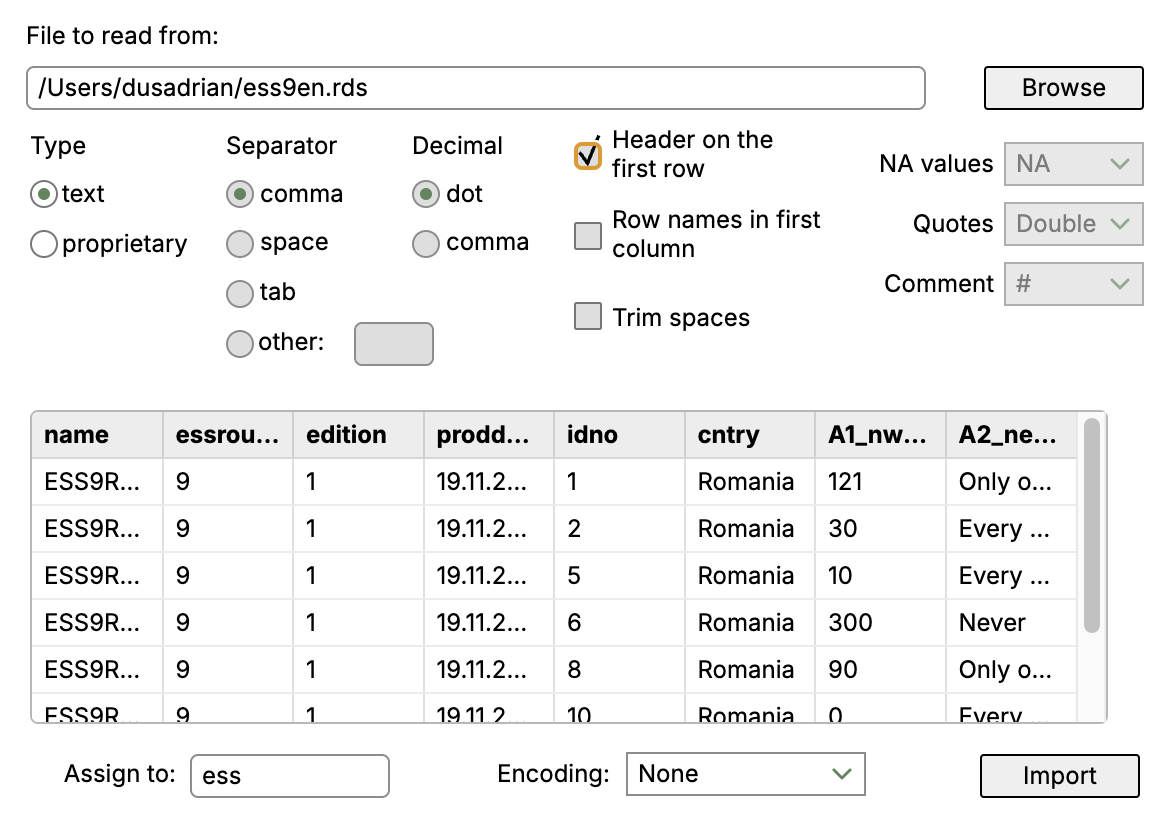
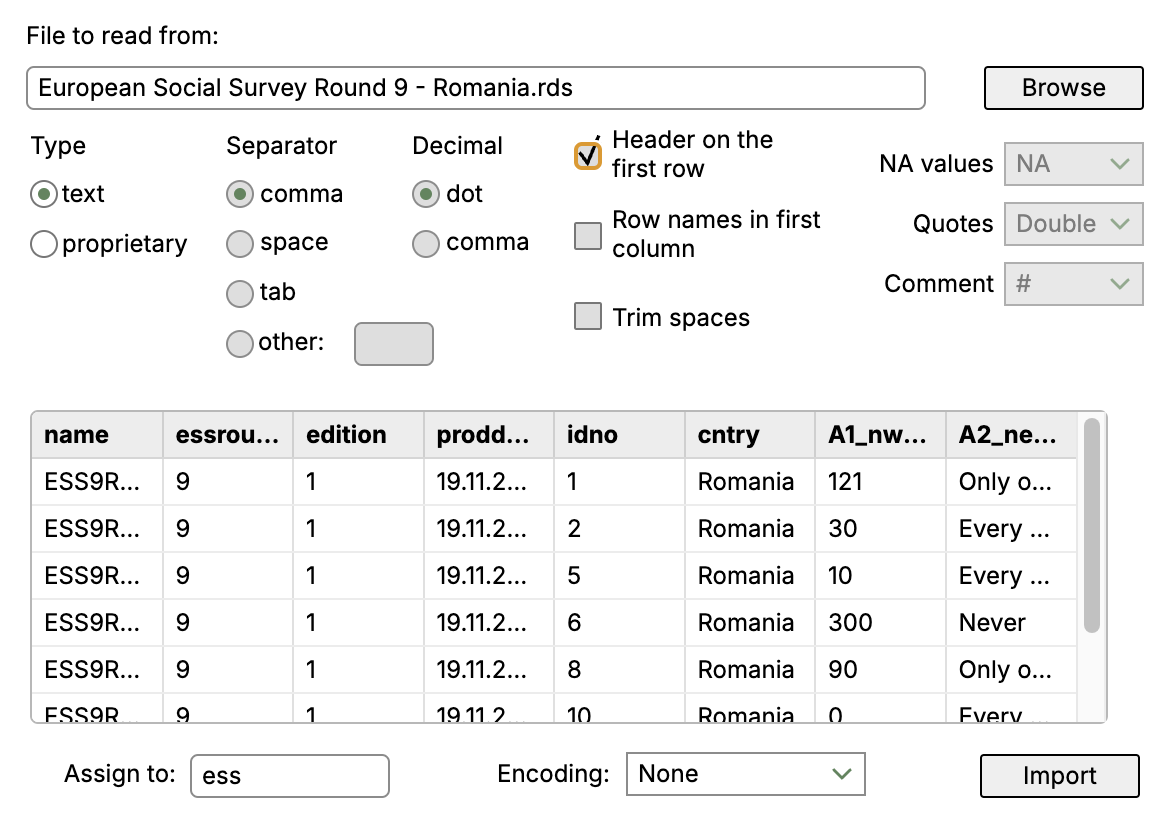
clarify DialogR runtime and WebR setup

Changed region(s): [[0.0308, 0.0915, 0.4923, 0.122]]

diff --git a/docs/usermanual.html b/docs/usermanual.html
@@ -48,7 +48,7 @@
         <figcaption><span>Figure 1</span> ESS political interest: the dataset and variable are selected, with Variable label enabled. Click Run. <a href="images/manual/frequencies.png" data-enlarge>Enlarge screenshot</a></figcaption>
     </figure>
     
-    <div class="callout"><p><strong>The dataset used in this guide.</strong> Screenshots use the prepared English-labelled ESS Round 9 Romania dataset, <strong>ess9en.rds</strong>, imported as <strong>ess</strong>. It contains 1,846 cases and 345 variables. The analysis variables retain their <strong>declared</strong> classes, labels, and missing-value definitions.</p><p>Use this prepared file if supplied with your course. You can also obtain data from the <a href="https://ess.sikt.no/">ESS Data Portal</a>; an original ESS download may have different variable names. The guide uses the prefixes in the prepared file, such as B1_polintr.</p></div><ol class="steps"><li><strong>Start DialogR.</strong> Complete <a href="#packages">desktop package setup</a>, or wait for WebR to load.</li><li><strong>Choose File → Import data.</strong> Browse to ess9en.rds, enter <strong>ess</strong> in <strong>Assign to</strong>, and click <strong>Import</strong>.</li><li><strong>Open the dataset editor.</strong> Explore the Data and Variables tabs. Keep the labels and missing-value definitions supplied with the file.</li><li><strong>Choose Analyze → Descriptive statistics → Frequency table.</strong> Select ess and <strong>B1_polintr</strong>, “How interested in politics”.</li><li><strong>Select Variable label and click Run.</strong> Leave Show values, Valid frequencies, and Observed only selected. No command needs to be typed.</li></ol>
+    <div class="callout"><p><strong>The dataset used in this guide.</strong> Screenshots use a prepared English-labelled <strong>European Social Survey Round 9 dataset for Romania</strong>, imported as <strong>ess</strong>. It contains 1,846 cases and 345 variables. The analysis variables retain their <strong>declared</strong> classes, labels, and missing-value definitions.</p><p>Use this prepared dataset if supplied with your course. You can also obtain data from the <a href="https://ess.sikt.no/">ESS Data Portal</a>; an original ESS download may have different variable names. The guide uses the prefixes in the prepared dataset, such as B1_polintr.</p></div><ol class="steps"><li><strong>Start DialogR.</strong> Complete <a href="#packages">desktop setup</a>, or wait for WebR to load.</li><li><strong>Choose File → Import data.</strong> Choose the European Social Survey Round 9 dataset for Romania, enter <strong>ess</strong> in <strong>Assign to</strong>, and click <strong>Import</strong>.</li><li><strong>Open the dataset editor.</strong> Explore the Data and Variables tabs. Keep the labels and missing-value definitions supplied with the file.</li><li><strong>Choose Analyze → Descriptive statistics → Frequency table.</strong> Select ess and <strong>B1_polintr</strong>, “How interested in politics”.</li><li><strong>Select Variable label and click Run.</strong> Leave Show values, Valid frequencies, and Observed only selected. No command needs to be typed.</li></ol>
     <div class="read-result"><h3>What to look for</h3><p>The four valid response categories contain 135, 380, 659, and 665 cases. Seven cases are labelled Refusal and treated as missing for the valid percentages. The overall total is 1,846; the valid total is 1,839. “Not at all interested” therefore represents 36.0% of all cases and 36.2% of valid responses.</p></div>
     <figure class="manual-figure" style="--screenshot-width: 437px">
         <a href="images/manual/frequencies-output.png" data-enlarge aria-label="Enlarge screenshot: Actual DialogR output: refusal remains visible as a distinct category, while valid percentages use only valid responses."><img src="images/manual/frequencies-output.png" width="874" height="480" loading="lazy" alt="Actual DialogR output: refusal remains visible as a distinct category, while valid percentages use only valid responses."></a>
@@ -113,8 +113,8 @@
     <p>Choose desktop DialogR for local work, or WebR to start in a browser with the required packages already supplied.</p>
     
     
-    <div class="callout"><p><strong>Desktop: you are responsible for installing the necessary R packages.</strong> Installing the application alone does not finish setup. Packages provide the calculations and import tools used by the dialogs.</p><p><strong>WebR: the packages are included, but analysis is slower.</strong> You do not need to install R packages on your computer. Allow time for the browser application and its library to load.</p></div>
-            <h3>Complete desktop setup</h3><ol class="steps"><li>Install the appropriate release from <a href="download.html">Get DialogR</a> and start the application.</li><li>Make sure the local R runtime is available.</li><li>Choose <strong>Packages → Install required R packages</strong>. Keep your internet connection available and wait for installation to finish.</li><li>If a dialog reports an old package, choose <strong>Packages → Update development versions</strong>. Read any installation error before trying again.</li></ol>
+    <div class="callout"><p><strong>Desktop: DialogR is a graphical layer on top of R.</strong> You are responsible for installing R itself and the necessary R packages. Installing DialogR alone does not provide the statistical runtime or the packages that perform its calculations and imports.</p><p><strong>WebR: R and the packages are supplied in the browser, but analysis is slower.</strong> You do not need to install R or its packages on your computer. The same dataset can be used; allow more time for the browser runtime, imports, and analyses.</p></div>
+            <h3>Complete desktop setup</h3><ol class="steps"><li>Install <a href="https://cran.r-project.org/">R</a> for your operating system.</li><li>Install the appropriate DialogR release from <a href="download.html">Get DialogR</a> and start the application.</li><li>Confirm that DialogR is using your local R installation in the runtime settings.</li><li>Choose <strong>Packages → Install required R packages</strong>. Keep your internet connection available and wait for installation to finish.</li><li>If a dialog reports an old package, choose <strong>Packages → Update development versions</strong>. Read any installation error before trying again.</li></ol>
             <h3>What the packages do</h3><div class="table-scroll"><table><thead><tr><th>Package</th><th>What it supplies</th><th>Required version</th></tr></thead><tbody><tr><td>admisc</td><td>Working within datasets and recoding values.</td><td>0.41 or newer</td></tr><tr><td>declared</td><td>Labelled data, missing-value handling, tables, and summaries.</td><td>0.27 or newer</td></tr><tr><td>DDIwR</td><td>Importing data from other statistical software and Excel.</td><td>0.20 or newer</td></tr><tr><td>statistics</td><td>Independent-samples t-tests and one-way ANOVA with variance-homogeneity handling.</td><td>Newer than 0.14</td></tr></tbody></table></div>
             <p>The setup workflow also installs supporting packages. They must be installed in the R installation used by DialogR. If Excel import reports a missing readxl package, that import dependency must be installed in the same R library. Further technical information is in the <a href="commands.html#packages">optional package reference</a>.</p>
     
@@ -126,10 +126,10 @@
     <p class="menu-path">File → Import data</p>
     <p>Bring in a dataset from SPSS, Stata, SAS, Excel, a text file, or an R dataset. Importing data does not import another program’s analyses or syntax.</p>
     <figure class="manual-figure" style="--screenshot-width: 585px">
-        <a href="images/manual/import.png" data-enlarge aria-label="Enlarge screenshot: Import the prepared ess9en.rds file and assign it the name ess. Your file location will differ."><img src="images/manual/import.png" width="1170" height="820" loading="lazy" alt="Import the prepared ess9en.rds file and assign it the name ess. Your file location will differ."></a>
-        <figcaption><span>Figure 8</span> Import the prepared ess9en.rds file and assign it the name ess. Your file location will differ. <a href="images/manual/import.png" data-enlarge>Enlarge screenshot</a></figcaption>
+        <a href="images/manual/import.png" data-enlarge aria-label="Enlarge screenshot: Import the European Social Survey Round 9 dataset for Romania and assign it the name ess."><img src="images/manual/import.png" width="1170" height="820" loading="lazy" alt="Import the European Social Survey Round 9 dataset for Romania and assign it the name ess."></a>
+        <figcaption><span>Figure 8</span> Import the European Social Survey Round 9 dataset for Romania and assign it the name ess. <a href="images/manual/import.png" data-enlarge>Enlarge screenshot</a></figcaption>
     </figure>
-    <h3>To carry out this example</h3><ol class="steps"><li>Click <strong>Browse</strong> and choose <strong>ess9en.rds</strong>, or your own supported data file.</li>
+    <h3>To carry out this example</h3><ol class="steps"><li>Click <strong>Browse</strong> and choose the European Social Survey Round 9 dataset for Romania, or your own supported data file.</li>
 <li>Enter <strong>ess</strong> under Assign to for this example.</li>
 <li>For a text file, check separator, decimal mark, header, missing-value marker, quotes, and encoding. These parsing controls are not needed for the prepared R dataset.</li>
 <li>Click <strong>Import</strong>. Open the dataset and review variable labels, value labels, and missing-value definitions in Variables view.</li></ol>
@@ -407,7 +407,7 @@
     <p>Start with the dialog’s message and the dataset settings. Most unexpected results can be traced to an input choice, missing value, or active filter, group, or weight.</p>
     
     
-    <h3>A dialog cannot run</h3><p>Wait for the runtime to finish starting. Select a dataset and all required variables. If a package is missing or outdated, follow <a href="#packages">Set up DialogR</a>.</p><h3>Results differ from the example</h3><p>Use the prepared ESS R dataset, then check the <a href="#dataset-state">filter, grouping, and weight settings</a>. Check declared missing-value definitions and confirm that you chose the same variable and did not change the original data.</p><h3>A variable is missing</h3><p>Select the correct dataset. A subset may have excluded the column you need. Check its name and type in the Variables view.</p><h3>WebR is slow</h3><p>Allow the browser runtime and package library to finish loading. For larger datasets and repeated intensive analyses, use desktop DialogR after completing package setup.</p><h3>Keep the original data</h3><p>Keep a copy of your input file. Use new-dataset and new-variable options for transformations when you want to preserve the originals. Save datasets or the workspace explicitly; do not rely on an open browser tab.</p><p>You may also keep generated commands in a script to repeat your work later. A script records instructions, not a copy of every dataset. For a reproducible problem, <a href="https://github.com/RODA/DialogR/issues">report an issue</a> with the dialog name, version, exact message, and a small non-confidential example.</p>
+    <h3>A dialog cannot run</h3><p>Wait for the runtime to finish starting. Select a dataset and all required variables. If a package is missing or outdated, follow <a href="#packages">Set up DialogR</a>.</p><h3>Results differ from the example</h3><p>Use the prepared European Social Survey Round 9 dataset for Romania, then check the <a href="#dataset-state">filter, grouping, and weight settings</a>. Check declared missing-value definitions and confirm that you chose the same variable and did not change the original data.</p><h3>A variable is missing</h3><p>Select the correct dataset. A subset may have excluded the column you need. Check its name and type in the Variables view.</p><h3>WebR is slow</h3><p>Allow the browser runtime and package library to finish loading. WebR can use the same dataset as desktop DialogR; loading, importing, and analysing it will simply take longer. Use desktop DialogR when you prefer faster repeated work.</p><h3>Keep the original data</h3><p>Keep a copy of your input file. Use new-dataset and new-variable options for transformations when you want to preserve the originals. Save datasets or the workspace explicitly; do not rely on an open browser tab.</p><p>You may also keep generated commands in a script to repeat your work later. A script records instructions, not a copy of every dataset. For a reproducible problem, <a href="https://github.com/RODA/DialogR/issues">report an issue</a> with the dialog name, version, exact message, and a small non-confidential example.</p>
     
     
 </section></div></div>

diff --git a/docs/index.html b/docs/index.html
@@ -7,5 +7,5 @@
 <section class="section wrap" id="from-spss"><p class="eyebrow">From SPSS to R</p><h2>A familiar way to work.<br>A fresh way into R.</h2><p class="lead">If you know your way around SPSS, you already know the idea: browse your data, define your variables, choose a menu, and fill in a dialog. DialogR brings that familiar workflow to R.</p><div class="grid"><article class="card"><span class="eyebrow">The data editor</span><h3>Cases and variables, side by side.</h3><p>Work with rows and columns in the Data view. Switch to Variables to inspect and edit names, types, labels, and other variable properties.</p><a href="usermanual.html#from-spss">Get to know the editor →</a></article><article class="card"><span class="eyebrow">Menus and dialogs</span><h3>Your choices become the code.</h3><p>Find a procedure in Data, Transform, or Analyze. Select the variables and options you need; DialogR takes care of constructing the command.</p><a href="usermanual.html#dialog-reference">Browse the available dialogs →</a></article><article class="card"><span class="eyebrow">Across platforms</span><h3>A modern interface for R.</h3><p>Use DialogR on macOS, Windows, or Linux, or start with WebR in your browser. A responsive interface brings the dialog-driven workflow across these environments.</p><a href="download.html">Choose your version →</a></article></div></section>
 <section class="section wrap"><p class="eyebrow">A clear path from data to insight</p><h2>Choose. Click. Analyse.</h2><div class="grid"><article class="card"><span class="eyebrow">01 / Bring your data</span><h3>A familiar place to begin.</h3><p>Open your SPSS, Stata, SAS, or Excel data. Browse cases in the data view and review their definitions in the variable view.</p><a href="usermanual.html#import">Meet the import tools →</a></article><article class="card"><span class="eyebrow">02 / Make your choices</span><h3>Let the dialog guide you.</h3><p>Choose an analysis from the menus, select variables, and set your options. The dialog constructs the R command automatically.</p><a href="usermanual.html#dialog-reference">Find your analysis →</a></article><article class="card"><span class="eyebrow">03 / Run your analysis</span><h3>Get results. Learn at your pace.</h3><p>Run the analysis without writing code. If you want to learn R, the generated command is there to explore, save, and reuse.</p><a href="usermanual.html#commands">Explore the generated commands →</a></article></div></section>
 <section class="tint"><div class="section wrap split"><div><p class="eyebrow">Built around real research data</p><h2>A new interface.<br>A familiar dataset.</h2><p>Move into R with data from SPSS, Stata, or SAS. DialogR uses DDIwR for these imports and the declared package for working with labelled data and declared missing values.</p><p>Excel works too: use one rectangular data table, one variable per column, and one case per row. The manual explains the layout and optional metadata sheets.</p><a href="usermanual.html#import">Prepare your first import →</a></div><div><p class="eyebrow">A useful starting toolkit</p><h3>Prepare your data</h3><p>Sort cases, select subsets, recode values, set grouping, and apply frequency weights.</p><h3>Explore and compare</h3><p>Frequency and contingency tables, numerical summaries, one-sample and independent-samples t-tests, and one-way ANOVA.</p><a href="usermanual.html#dialog-reference">Read the guide to every dialog →</a></div></div></section>
-<section class="section wrap split" id="declared-data"><div><p class="eyebrow">More than numbers in cells</p><h2>Keep what your<br>data means.</h2><p>Multiple missing values. Their meaning preserved. DialogR uses the <a href="https://CRAN.R-project.org/package=declared"><strong>declared R package</strong></a> to distinguish “refusal”, “don’t know”, and “not applicable” — instead of losing their meaning in a single undifferentiated missing value. Each can keep its own code and label while being treated as missing in supported analyses.</p><p>View and edit those definitions in the familiar variable editor. Frequency tables can show the missing categories, while valid percentages and numerical summaries exclude responses declared missing.</p><p>In the ESS example, seven refusals remain visible in the political-interest table. They are excluded from its valid percentages — automatically, because their meaning is part of the variable.</p><a href="usermanual.html#declared-values">See labels and missing values in action →</a></div><figure class="manual-figure"><a href="usermanual.html#declared-values"><img src="images/manual/declared-missing.png" width="1180" height="860" loading="lazy" alt="ESS political-interest value labels, with Refusal, Don’t know, and No answer marked as missing."></a><figcaption>Actual ESS variable definitions in DialogR.</figcaption></figure></section><section class="section wrap"><p class="eyebrow">Choose how you work</p><h2>At your desk. In your browser.</h2><div class="download-grid"><article class="card"><span class="eyebrow">Desktop</span><h3>Local R. More speed.</h3><p>Install DialogR for regular analysis on your computer.</p><p><strong>You are responsible for installing the necessary R packages.</strong> Installing the application alone does not complete package setup. The Packages menu helps you install and update them.</p><a class="button primary" href="download.html#desktop">Desktop setup →</a></article><article class="card"><span class="eyebrow">WebR</span><h3>Everything ready to start.</h3><p>Use R in your browser with the packages needed by DialogR already included. No local R package installation is needed.</p><p><strong>WebR is slower than local R.</strong> Allow extra time for startup, imports, and analysis; larger datasets are better suited to the desktop version.</p><a class="button" href="https://webr.adriandusa.com/dialogr">Open DialogR in the browser ↗</a></article></div></section>
+<section class="section wrap split" id="declared-data"><div><p class="eyebrow">More than numbers in cells</p><h2>Keep what your<br>data means.</h2><p>Multiple missing values. Their meaning preserved. DialogR uses the <a href="https://CRAN.R-project.org/package=declared"><strong>declared R package</strong></a> to distinguish “refusal”, “don’t know”, and “not applicable” — instead of losing their meaning in a single undifferentiated missing value. Each can keep its own code and label while being treated as missing in supported analyses.</p><p>View and edit those definitions in the familiar variable editor. Frequency tables can show the missing categories, while valid percentages and numerical summaries exclude responses declared missing.</p><p>In the ESS example, seven refusals remain visible in the political-interest table. They are excluded from its valid percentages — automatically, because their meaning is part of the variable.</p><a href="usermanual.html#declared-values">See labels and missing values in action →</a></div><figure class="manual-figure"><a href="usermanual.html#declared-values"><img src="images/manual/declared-missing.png" width="1180" height="860" loading="lazy" alt="ESS political-interest value labels, with Refusal, Don’t know, and No answer marked as missing."></a><figcaption>Actual ESS variable definitions in DialogR.</figcaption></figure></section><section class="section wrap"><p class="eyebrow">Choose how you work</p><h2>At your desk. In your browser.</h2><div class="download-grid"><article class="card"><span class="eyebrow">Desktop</span><h3>Local R. More speed.</h3><p>DialogR is a graphical layer on top of R. Install R first, then install DialogR for regular analysis on your computer.</p><p><strong>You are responsible for installing R and the necessary R packages.</strong> Installing DialogR alone does not complete desktop setup. The Packages menu helps you install and update the packages.</p><a class="button primary" href="download.html#desktop">Desktop setup →</a></article><article class="card"><span class="eyebrow">WebR</span><h3>Everything ready to start.</h3><p>Use R in your browser with the R runtime and packages needed by DialogR already included. No local R or package installation is needed.</p><p><strong>WebR is slower than local R.</strong> It can use the same dataset; allow extra time for startup, imports, and analysis.</p><a class="button" href="https://webr.adriandusa.com/dialogr">Open DialogR in the browser ↗</a></article></div></section>
 <section class="tint"><div class="section wrap split"><div><p class="eyebrow">The user manual</p><h2>Understand every choice.</h2><p>Follow actual screenshots of the data editor and each dialog, with numbered steps and explanations of the results. Learn with real ESS data and its declared missing values.</p></div><div><h3>Your next step</h3><p><a href="usermanual.html#getting-started">A first analysis, step by step →</a></p><p><a href="usermanual.html#packages">R packages and installation →</a></p><p><a href="usermanual.html#commands">Reading and reusing commands →</a></p></div></div></section></main><footer class="wrap"><div><a class="brand" href="index.html">DialogR</a><p class="small">By Adrian Dusa · Part of the <a href="https://www.roda.ro/">RODA</a> tools for research.</p></div><nav aria-label="Project links"><a href="https://github.com/RODA/DialogR">Source code</a><a href="https://github.com/RODA/DialogR/issues">Report an issue</a><a href="https://roda.github.io/DialogCreator/">DialogCreator ↗</a><a href="https://github.com/RODA/DialogR/blob/main/LICENSE">License</a></nav></footer></body></html>

diff --git a/docs/download.html b/docs/download.html
@@ -1,3 +1,3 @@
 <!doctype html>
-<html lang="en"><head><meta charset="utf-8"><meta name="viewport" content="width=device-width, initial-scale=1"><title>Get DialogR — DialogR</title><meta name="description" content="Choose desktop DialogR or WebR. Install the required R packages on desktop, or use the slower browser version with packages included."><meta name="theme-color" content="#faf9f6"><meta property="og:title" content="Get DialogR — DialogR"><meta property="og:description" content="Choose desktop DialogR or WebR. Install the required R packages on desktop, or use the slower browser version with packages included."><meta property="og:type" content="website"><link rel="icon" href="images/dialogr.svg" type="image/svg+xml"><link rel="stylesheet" href="css/site.css"><script src="scripts/site.js" defer></script></head>
-<body><a class="skip" href="#main">Skip to content</a><header class="wrap"><a class="brand" href="index.html"><img src="images/dialogr.svg" alt="" width="34" height="34">DialogR</a><nav aria-label="Main navigation"><a href="index.html">Overview</a><a href="usermanual.html">User manual</a><a href="download.html" aria-current="page">Get DialogR</a></nav></header><main id="main" class="wrap"><div class="page-heading"><p class="eyebrow">Choose your starting point</p><h1>Make room for discovery.</h1><p class="lead">Analyse data through familiar menus and dialogs — DialogR writes the R commands for you. Choose the desktop application or begin in a browser with the R packages already included.</p></div><div class="download-grid"><section class="card" id="desktop"><p class="eyebrow">Desktop / local R</p><h2>Your everyday workspace.</h2><p>Use the release for your operating system and processor. Release pages list the available installers and their version information.</p><p><a href="https://github.com/RODA/DialogR/releases/tag/ms">macOS · Apple silicon ↗</a><br><a href="https://github.com/RODA/DialogR/releases/tag/mi">macOS · Intel ↗</a><br><a href="https://github.com/RODA/DialogR/releases/tag/wi">Windows · Intel / x64 ↗</a><br><a href="https://github.com/RODA/DialogR/releases/tag/li">Linux · Intel / x64 ↗</a></p><div class="callout"><p><strong>Package installation is your responsibility.</strong> After installing DialogR, install the required R packages. They are separate from the application.</p></div><ol><li>Download and install the appropriate application release.</li><li>Start DialogR and make sure its local R runtime is available. If no R installation is found, install R and select it in the application’s runtime settings.</li><li>Choose <strong>Packages → Install required R packages</strong>. Wait for installation to finish and resolve any reported failures.</li><li>Use <strong>Packages → Update development versions</strong> when a required package is too old.</li><li>Import a dataset and follow the first-analysis guide.</li></ol><a href="usermanual.html#packages">Package requirements and versions →</a></section><section class="card"><p class="eyebrow">Browser / WebR</p><h2>Ready when you are.</h2><p>WebR runs R in your browser. The packages needed for DialogR’s supported dialogs are included in its supplied library; you do not need to install them on your computer.</p><div class="callout"><p><strong>WebR is slower than local R.</strong> Startup includes loading the runtime and package library. Imports and analyses can also take longer.</p></div><p>Begin with a modest dataset and allow loading to finish. Use the file picker to bring data into the browser session, and save the files and results you need before closing it.</p><a class="button primary" href="https://webr.adriandusa.com/dialogr">Open WebR ↗</a><p style="margin-top:24px"><a href="usermanual.html#getting-started">Follow your first analysis →</a></p></section></div><section class="section"><h2>For research and teaching.</h2><p>DialogR is available under its academic non-commercial license. See the repository’s license for the terms of use.</p><p><a href="https://github.com/RODA/DialogR">Source code and developer setup ↗</a> · <a href="usermanual.html">Read the user manual →</a></p></section></main><footer class="wrap"><div><a class="brand" href="index.html">DialogR</a><p class="small">By Adrian Dusa · Part of the <a href="https://www.roda.ro/">RODA</a> tools for research.</p></div><nav aria-label="Project links"><a href="https://github.com/RODA/DialogR">Source code</a><a href="https://github.com/RODA/DialogR/issues">Report an issue</a><a href="https://roda.github.io/DialogCreator/">DialogCreator ↗</a><a href="https://github.com/RODA/DialogR/blob/main/LICENSE">License</a></nav></footer></body></html>
+<html lang="en"><head><meta charset="utf-8"><meta name="viewport" content="width=device-width, initial-scale=1"><title>Get DialogR — DialogR</title><meta name="description" content="Choose desktop DialogR or WebR. Install R and the required packages for desktop use, or use the slower browser version with R and packages included."><meta name="theme-color" content="#faf9f6"><meta property="og:title" content="Get DialogR — DialogR"><meta property="og:description" content="Choose desktop DialogR or WebR. Install R and the required packages for desktop use, or use the slower browser version with R and packages included."><meta property="og:type" content="website"><link rel="icon" href="images/dialogr.svg" type="image/svg+xml"><link rel="stylesheet" href="css/site.css"><script src="scripts/site.js" defer></script></head>
+<body><a class="skip" href="#main">Skip to content</a><header class="wrap"><a class="brand" href="index.html"><img src="images/dialogr.svg" alt="" width="34" height="34">DialogR</a><nav aria-label="Main navigation"><a href="index.html">Overview</a><a href="usermanual.html">User manual</a><a href="download.html" aria-current="page">Get DialogR</a></nav></header><main id="main" class="wrap"><div class="page-heading"><p class="eyebrow">Choose your starting point</p><h1>Make room for discovery.</h1><p class="lead">Analyse data through familiar menus and dialogs — DialogR writes the R commands for you. Choose the desktop application, which runs on your own R installation, or begin in a browser with R and its packages already included.</p></div><div class="download-grid"><section class="card" id="desktop"><p class="eyebrow">Desktop / local R</p><h2>Your everyday workspace.</h2><p>Use the release for your operating system and processor. Release pages list the available installers and their version information.</p><p><a href="https://github.com/RODA/DialogR/releases/tag/ms">macOS · Apple silicon ↗</a><br><a href="https://github.com/RODA/DialogR/releases/tag/mi">macOS · Intel ↗</a><br><a href="https://github.com/RODA/DialogR/releases/tag/wi">Windows · Intel / x64 ↗</a><br><a href="https://github.com/RODA/DialogR/releases/tag/li">Linux · Intel / x64 ↗</a></p><div class="callout"><p><strong>DialogR is a graphical layer on top of R.</strong> You are responsible for installing R itself and the required R packages. They are separate from the DialogR application.</p></div><ol><li>Install <a href="https://cran.r-project.org/">R</a> for your operating system.</li><li>Download and install the appropriate DialogR release.</li><li>Start DialogR and select your R installation in the application’s runtime settings.</li><li>Choose <strong>Packages → Install required R packages</strong>. Wait for installation to finish and resolve any reported failures.</li><li>Use <strong>Packages → Update development versions</strong> when a required package is too old.</li><li>Import a dataset and follow the first-analysis guide.</li></ol><a href="usermanual.html#packages">Package requirements and versions →</a></section><section class="card"><p class="eyebrow">Browser / WebR</p><h2>Ready when you are.</h2><p>WebR runs R in your browser. Its R runtime and the packages needed for DialogR’s supported dialogs are included; you do not need to install R or its packages on your computer.</p><div class="callout"><p><strong>WebR is slower than local R.</strong> Startup includes loading the runtime and package library. Imports and analyses can also take longer.</p></div><p>You can use the same dataset as in desktop DialogR; it will simply take longer to load, import, and analyse. Allow each operation to finish, and save the files and results you need before closing the browser session.</p><a class="button primary" href="https://webr.adriandusa.com/dialogr">Open WebR ↗</a><p style="margin-top:24px"><a href="usermanual.html#getting-started">Follow your first analysis →</a></p></section></div><section class="section"><h2>For research and teaching.</h2><p>DialogR is available under its academic non-commercial license. See the repository’s license for the terms of use.</p><p><a href="https://github.com/RODA/DialogR">Source code and developer setup ↗</a> · <a href="usermanual.html">Read the user manual →</a></p></section></main><footer class="wrap"><div><a class="brand" href="index.html">DialogR</a><p class="small">By Adrian Dusa · Part of the <a href="https://www.roda.ro/">RODA</a> tools for research.</p></div><nav aria-label="Project links"><a href="https://github.com/RODA/DialogR">Source code</a><a href="https://github.com/RODA/DialogR/issues">Report an issue</a><a href="https://roda.github.io/DialogCreator/">DialogCreator ↗</a><a href="https://github.com/RODA/DialogR/blob/main/LICENSE">License</a></nav></footer></body></html>

diff --git a/scripts/manual/build-html.js b/scripts/manual/build-html.js
@@ -81,7 +81,7 @@ fs.writeFileSync(path.join(docs, "commands.html"), shell(
     "An optional reference for the R commands generated by DialogR, their packages, and technical details.",
     `<main id="main" class="wrap reference-page"><div class="page-heading"><p class="eyebrow">Optional background</p><h1>Behind the dialogs.</h1><p class="lead">DialogR writes these commands from your selections. This reference is here when you want to inspect, save, or adapt them.</p><p><a href="usermanual.html">← Return to the illustrated manual</a></p></div><div class="manual-content">
     <section id="structure"><h2>The structure of a command</h2><p>This is the political-interest example from the manual:</p>${code('using(\n  ess,\n  wtable(B1_polintr, vlabel = TRUE)\n)')}<p>admisc’s using() evaluates the analysis within ess, so the function can refer to columns by their names. declared’s wtable() uses the variable’s labels and missing-value metadata. The vlabel argument requests its descriptive label.</p><p>Named arguments control options. TRUE and FALSE are logical values; quoted text is a string. A formula such as F3_agea ~ F2_gndr puts the response on the left and the grouping variable on the right. Commands generally omit options that match a function’s defaults.</p></section>
-    <section id="packages"><h2>Packages and functions</h2><p>Desktop users install packages through the Packages menu. The application uses CRAN and development repositories. Packages must be available in the active R runtime. WebR supplies a separate browser-compatible library.</p><table><thead><tr><th>Package</th><th>Functions used by the dialogs</th></tr></thead><tbody><tr><td>admisc ≥ 0.41</td><td>using(), inside(), recode()</td></tr><tr><td>declared ≥ 0.27</td><td>wtable(), wsummary(), wquantile(), wmeasures(), and individual weighted summaries</td></tr><tr><td>DDIwR ≥ 0.20</td><td>convert() for statistical data and Excel imports</td></tr><tr><td>statistics &gt; 0.14</td><td>t.testhv(), anovahv()</td></tr><tr><td>base / stats (with R)</td><td>subset(), order(), readRDS(), t.test(), proportions(), chisq.test(), pairwise.t.test()</td></tr></tbody></table><p>The desktop setup also needs httpgd, jsonlite, askpass, later, and digest. Excel import uses readxl. If it is missing, install it in the active R library:</p>${code('install.packages("readxl")')}<p>When reusing dialog commands in a fresh R session, load the required packages and dataset first:</p>${code('library(admisc)\nlibrary(declared)\nlibrary(DDIwR)\nlibrary(statistics)\ness <- readRDS("ess9en.rds")')}<p>For individual function documentation, use the R help system, for example help("wtable", package = "declared").</p></section>
+    <section id="packages"><h2>Packages and functions</h2><p>Desktop DialogR is a graphical layer on top of R: install R first, then install the packages through the Packages menu. The application uses CRAN and development repositories. Packages must be available in the R installation selected by DialogR. WebR supplies its own browser-compatible R runtime and library.</p><table><thead><tr><th>Package</th><th>Functions used by the dialogs</th></tr></thead><tbody><tr><td>admisc ≥ 0.41</td><td>using(), inside(), recode()</td></tr><tr><td>declared ≥ 0.27</td><td>wtable(), wsummary(), wquantile(), wmeasures(), and individual weighted summaries</td></tr><tr><td>DDIwR ≥ 0.20</td><td>convert() for statistical data and Excel imports</td></tr><tr><td>statistics &gt; 0.14</td><td>t.testhv(), anovahv()</td></tr><tr><td>base / stats (with R)</td><td>subset(), order(), readRDS(), t.test(), proportions(), chisq.test(), pairwise.t.test()</td></tr></tbody></table><p>The desktop setup also needs httpgd, jsonlite, askpass, later, and digest. Excel import uses readxl. If it is missing, install it in the active R library:</p>${code('install.packages("readxl")')}<p>When reusing dialog commands in a fresh R session, load the required packages and dataset first:</p>${code('library(admisc)\nlibrary(declared)\nlibrary(DDIwR)\nlibrary(statistics)\ness <- readRDS(file.choose())')}<p>For individual function documentation, use the R help system, for example help("wtable", package = "declared").</p></section>
     <section id="declared"><h2>Why the declared class matters</h2><p>The teaching file already stores the analysis variables as declared. Their labels and na_values definitions remain attached to the variables. Do not coerce them to ordinary factors or numeric vectors merely to reproduce the screenshots: that changes the data contract the examples demonstrate.</p><p>For B1_polintr, values 1–4 are substantive responses and 7, 8, 9 are declared missing. The missing categories keep distinct labels even though valid numerical calculations exclude them. B7_trstlgl instead has valid values 0–10 and declared missing codes 77, 88, 99.</p></section>
     <section id="conditions"><h2>Selection expressions</h2><p>The subset dialog accepts a condition. Declared variables support comparisons using their value labels:</p>${code('F2_gndr == "Female"\nF3_agea >= 45\nF2_gndr == "Female" & F3_agea > 45')}<p>Use == for equality, != for inequality, &amp; for “and”, and | for “or”. Conditions evaluating to missing do not select a case. The dialog builds the surrounding subset call and assignment:</p>${code('essf <- subset(ess, F2_gndr == "Female")')}</section>
     <section id="state"><h2>Filters, grouping, and weights</h2>${code('using(\n  subset(ess, F2_gndr == "Female"),\n  wtable(B1_polintr, wt = fweight, vlabel = TRUE)\n)\n\nusing(ess, wtable(B1_polintr), split.by = F2_gndr)')}<p>The support table in the <a href="usermanual.html#dataset-state">manual</a> states which dialogs use each setting. Dataset state is not a global promise that every R function will be weighted or split.</p></section>

diff --git a/docs/commands.html b/docs/commands.html
@@ -21,11 +21,11 @@
   ess,
   wtable(B1_polintr, vlabel = TRUE)
 )</code></pre><p>admisc’s using() evaluates the analysis within ess, so the function can refer to columns by their names. declared’s wtable() uses the variable’s labels and missing-value metadata. The vlabel argument requests its descriptive label.</p><p>Named arguments control options. TRUE and FALSE are logical values; quoted text is a string. A formula such as F3_agea ~ F2_gndr puts the response on the left and the grouping variable on the right. Commands generally omit options that match a function’s defaults.</p></section>
-    <section id="packages"><h2>Packages and functions</h2><p>Desktop users install packages through the Packages menu. The application uses CRAN and development repositories. Packages must be available in the active R runtime. WebR supplies a separate browser-compatible library.</p><table><thead><tr><th>Package</th><th>Functions used by the dialogs</th></tr></thead><tbody><tr><td>admisc ≥ 0.41</td><td>using(), inside(), recode()</td></tr><tr><td>declared ≥ 0.27</td><td>wtable(), wsummary(), wquantile(), wmeasures(), and individual weighted summaries</td></tr><tr><td>DDIwR ≥ 0.20</td><td>convert() for statistical data and Excel imports</td></tr><tr><td>statistics &gt; 0.14</td><td>t.testhv(), anovahv()</td></tr><tr><td>base / stats (with R)</td><td>subset(), order(), readRDS(), t.test(), proportions(), chisq.test(), pairwise.t.test()</td></tr></tbody></table><p>The desktop setup also needs httpgd, jsonlite, askpass, later, and digest. Excel import uses readxl. If it is missing, install it in the active R library:</p><pre><code>install.packages(&quot;readxl&quot;)</code></pre><p>When reusing dialog commands in a fresh R session, load the required packages and dataset first:</p><pre><code>library(admisc)
+    <section id="packages"><h2>Packages and functions</h2><p>Desktop DialogR is a graphical layer on top of R: install R first, then install the packages through the Packages menu. The application uses CRAN and development repositories. Packages must be available in the R installation selected by DialogR. WebR supplies its own browser-compatible R runtime and library.</p><table><thead><tr><th>Package</th><th>Functions used by the dialogs</th></tr></thead><tbody><tr><td>admisc ≥ 0.41</td><td>using(), inside(), recode()</td></tr><tr><td>declared ≥ 0.27</td><td>wtable(), wsummary(), wquantile(), wmeasures(), and individual weighted summaries</td></tr><tr><td>DDIwR ≥ 0.20</td><td>convert() for statistical data and Excel imports</td></tr><tr><td>statistics &gt; 0.14</td><td>t.testhv(), anovahv()</td></tr><tr><td>base / stats (with R)</td><td>subset(), order(), readRDS(), t.test(), proportions(), chisq.test(), pairwise.t.test()</td></tr></tbody></table><p>The desktop setup also needs httpgd, jsonlite, askpass, later, and digest. Excel import uses readxl. If it is missing, install it in the active R library:</p><pre><code>install.packages(&quot;readxl&quot;)</code></pre><p>When reusing dialog commands in a fresh R session, load the required packages and dataset first:</p><pre><code>library(admisc)
 library(declared)
 library(DDIwR)
 library(statistics)
-ess &lt;- readRDS(&quot;ess9en.rds&quot;)</code></pre><p>For individual function documentation, use the R help system, for example help("wtable", package = "declared").</p></section>
+ess &lt;- readRDS(file.choose())</code></pre><p>For individual function documentation, use the R help system, for example help("wtable", package = "declared").</p></section>
     <section id="declared"><h2>Why the declared class matters</h2><p>The teaching file already stores the analysis variables as declared. Their labels and na_values definitions remain attached to the variables. Do not coerce them to ordinary factors or numeric vectors merely to reproduce the screenshots: that changes the data contract the examples demonstrate.</p><p>For B1_polintr, values 1–4 are substantive responses and 7, 8, 9 are declared missing. The missing categories keep distinct labels even though valid numerical calculations exclude them. B7_trstlgl instead has valid values 0–10 and declared missing codes 77, 88, 99.</p></section>
     <section id="conditions"><h2>Selection expressions</h2><p>The subset dialog accepts a condition. Declared variables support comparisons using their value labels:</p><pre><code>F2_gndr == &quot;Female&quot;
 F3_agea &gt;= 45

diff --git a/docs/website.md b/docs/website.md
@@ -29,11 +29,12 @@ Edit `scripts/manual/chapters.cjs`, then run
 `node scripts/manual/build-html.js` to regenerate the manual and optional R
 reference. Serving the generated website requires no build or dependencies.
 
-The illustrated examples use the author's local `~/ess9en.rds` (the available
-file is RDS, not RDA), with 1,846 Romanian ESS Round 9 cases and 345 variables.
-Analysis variables keep their `declared` classes, value labels, and missing
-definitions. The source dataset is not redistributed with this site. Examples
-are informed by `~/Descriptive.R` and `~/Inferential 2025-2026.R`.
+The illustrated examples use a locally prepared European Social Survey Round 9
+dataset for Romania, with 1,846 cases and 345 variables. Analysis variables
+keep their `declared` classes, value labels, and missing definitions. The source
+dataset is not redistributed with this site. Set `DIALOGR_MANUAL_DATA` to its
+local path when recapturing. Examples are informed by the accompanying
+descriptive and inferential teaching scripts.
 
 `scripts/manual/capture-screenshots.cjs` captures an isolated instance of the
 real Electron application using the sibling DialogForge Playwright/Electron
